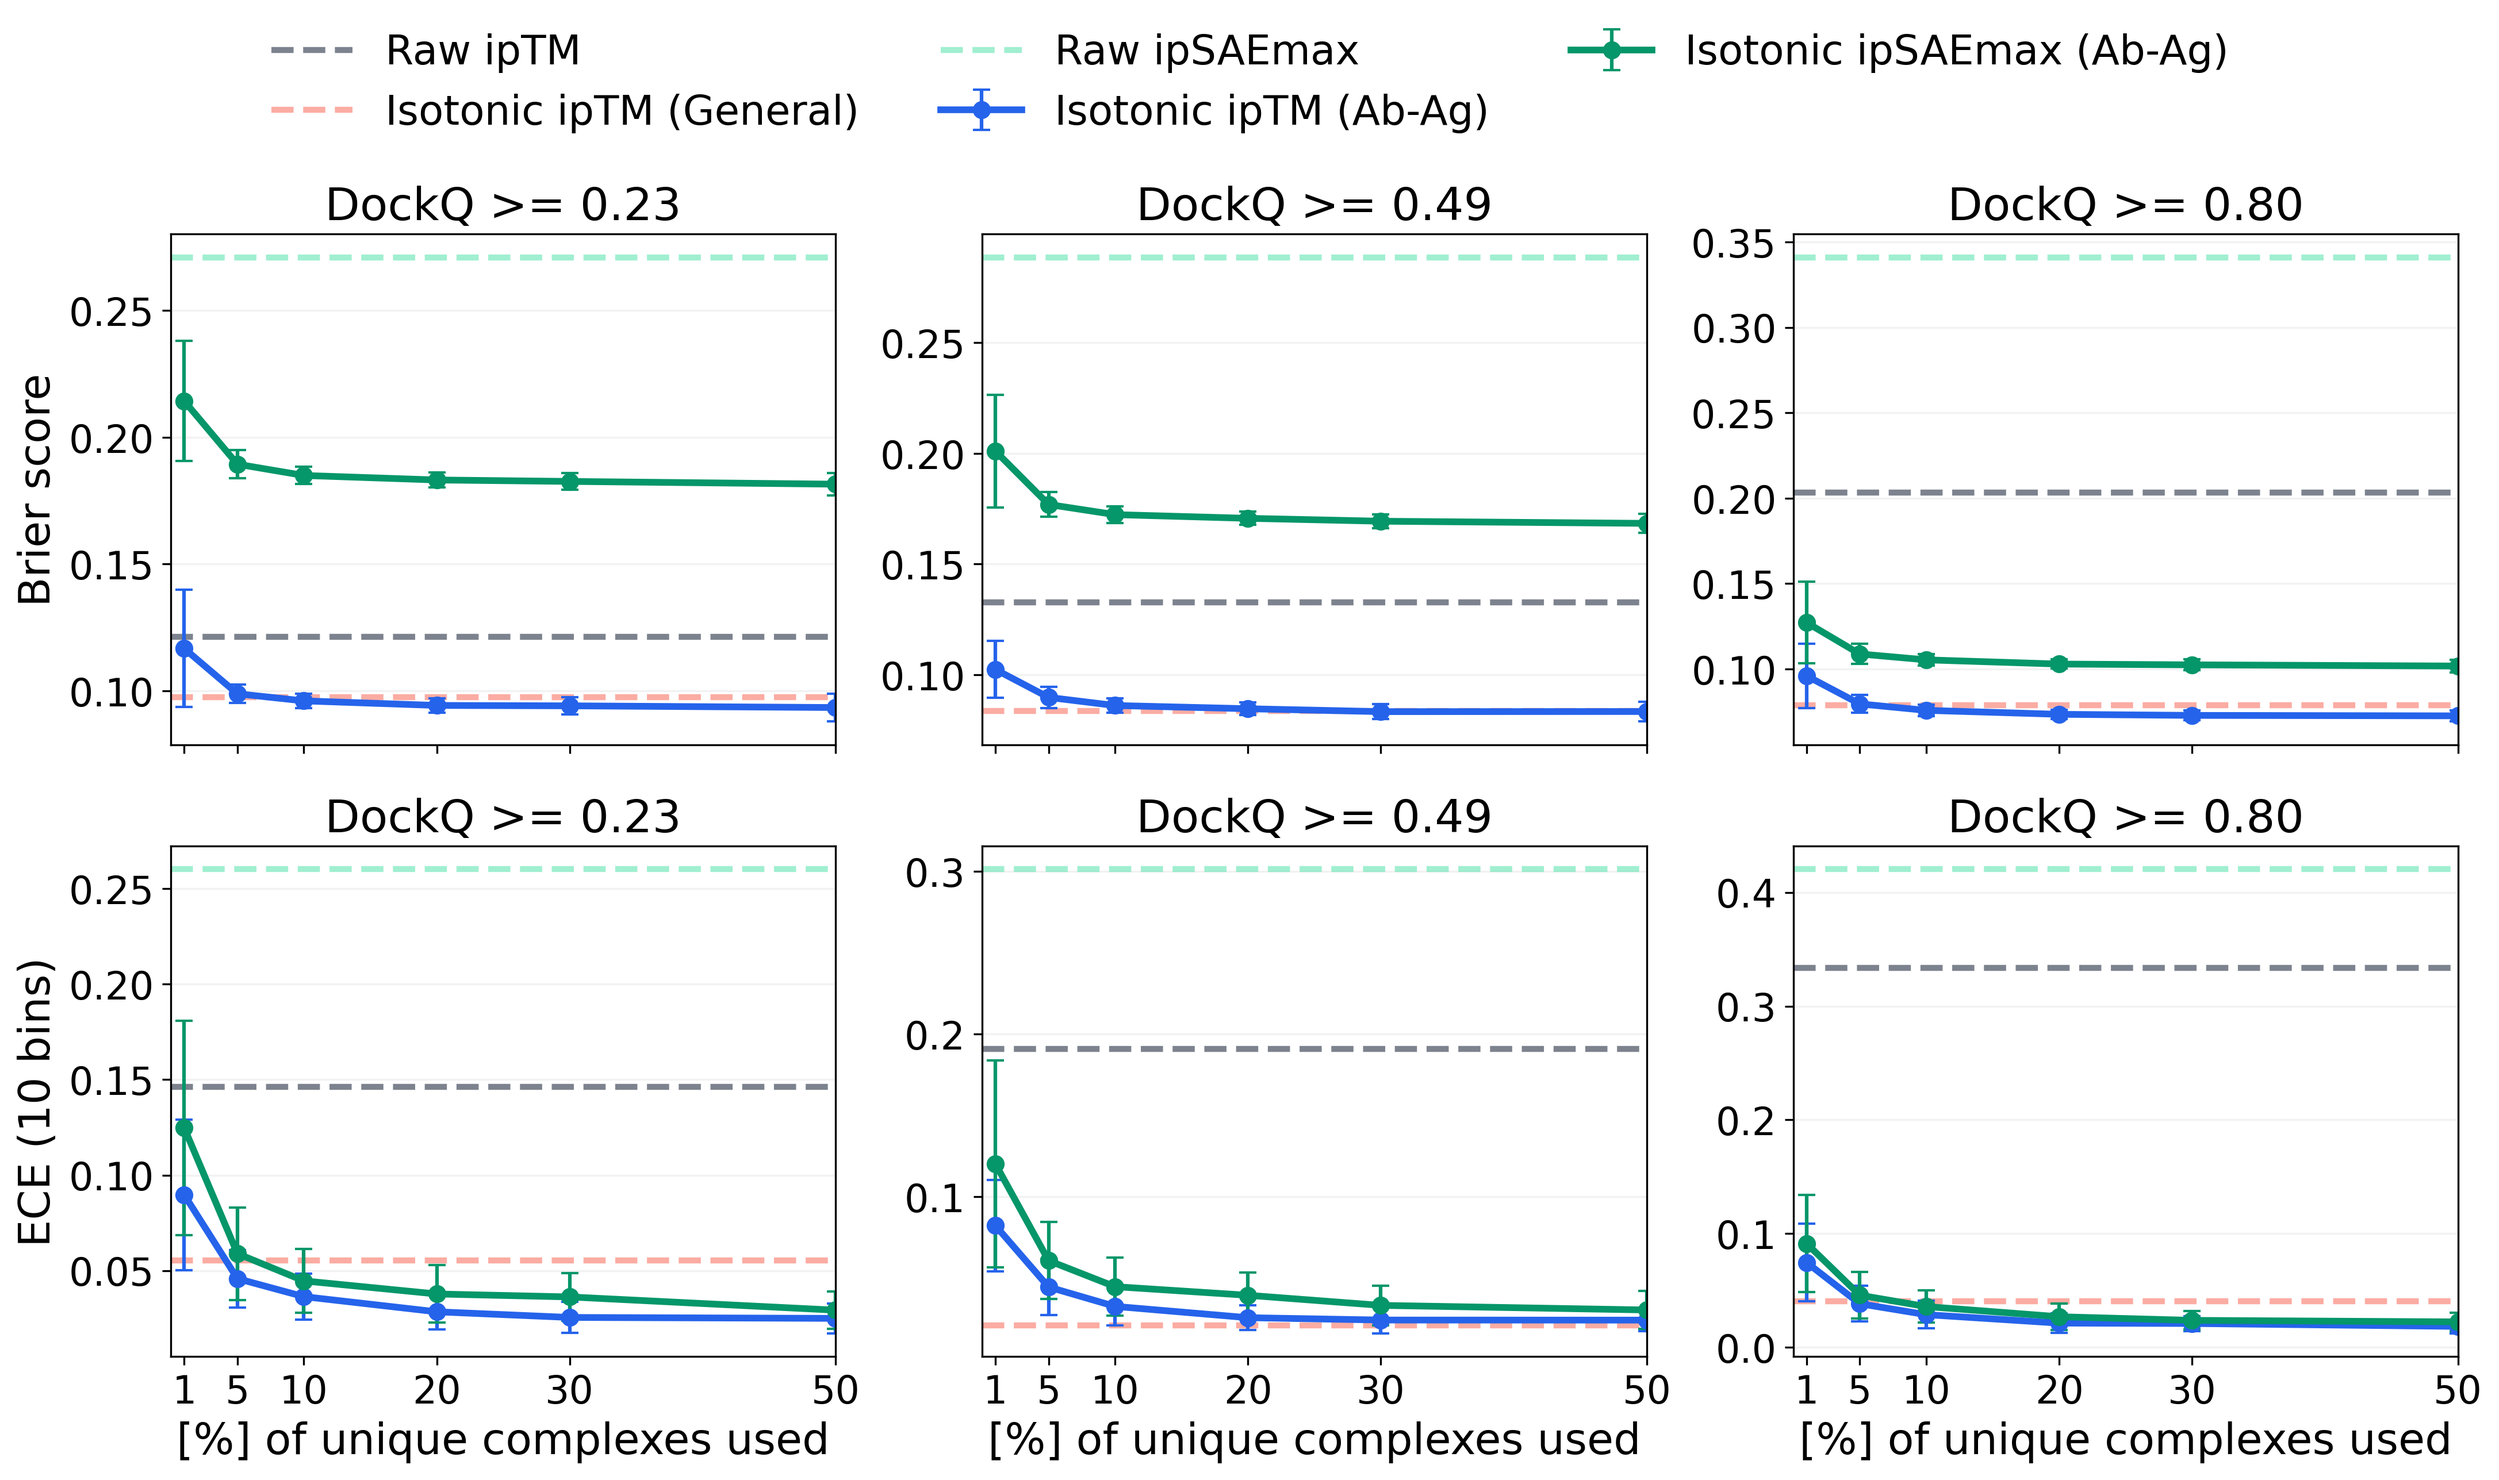
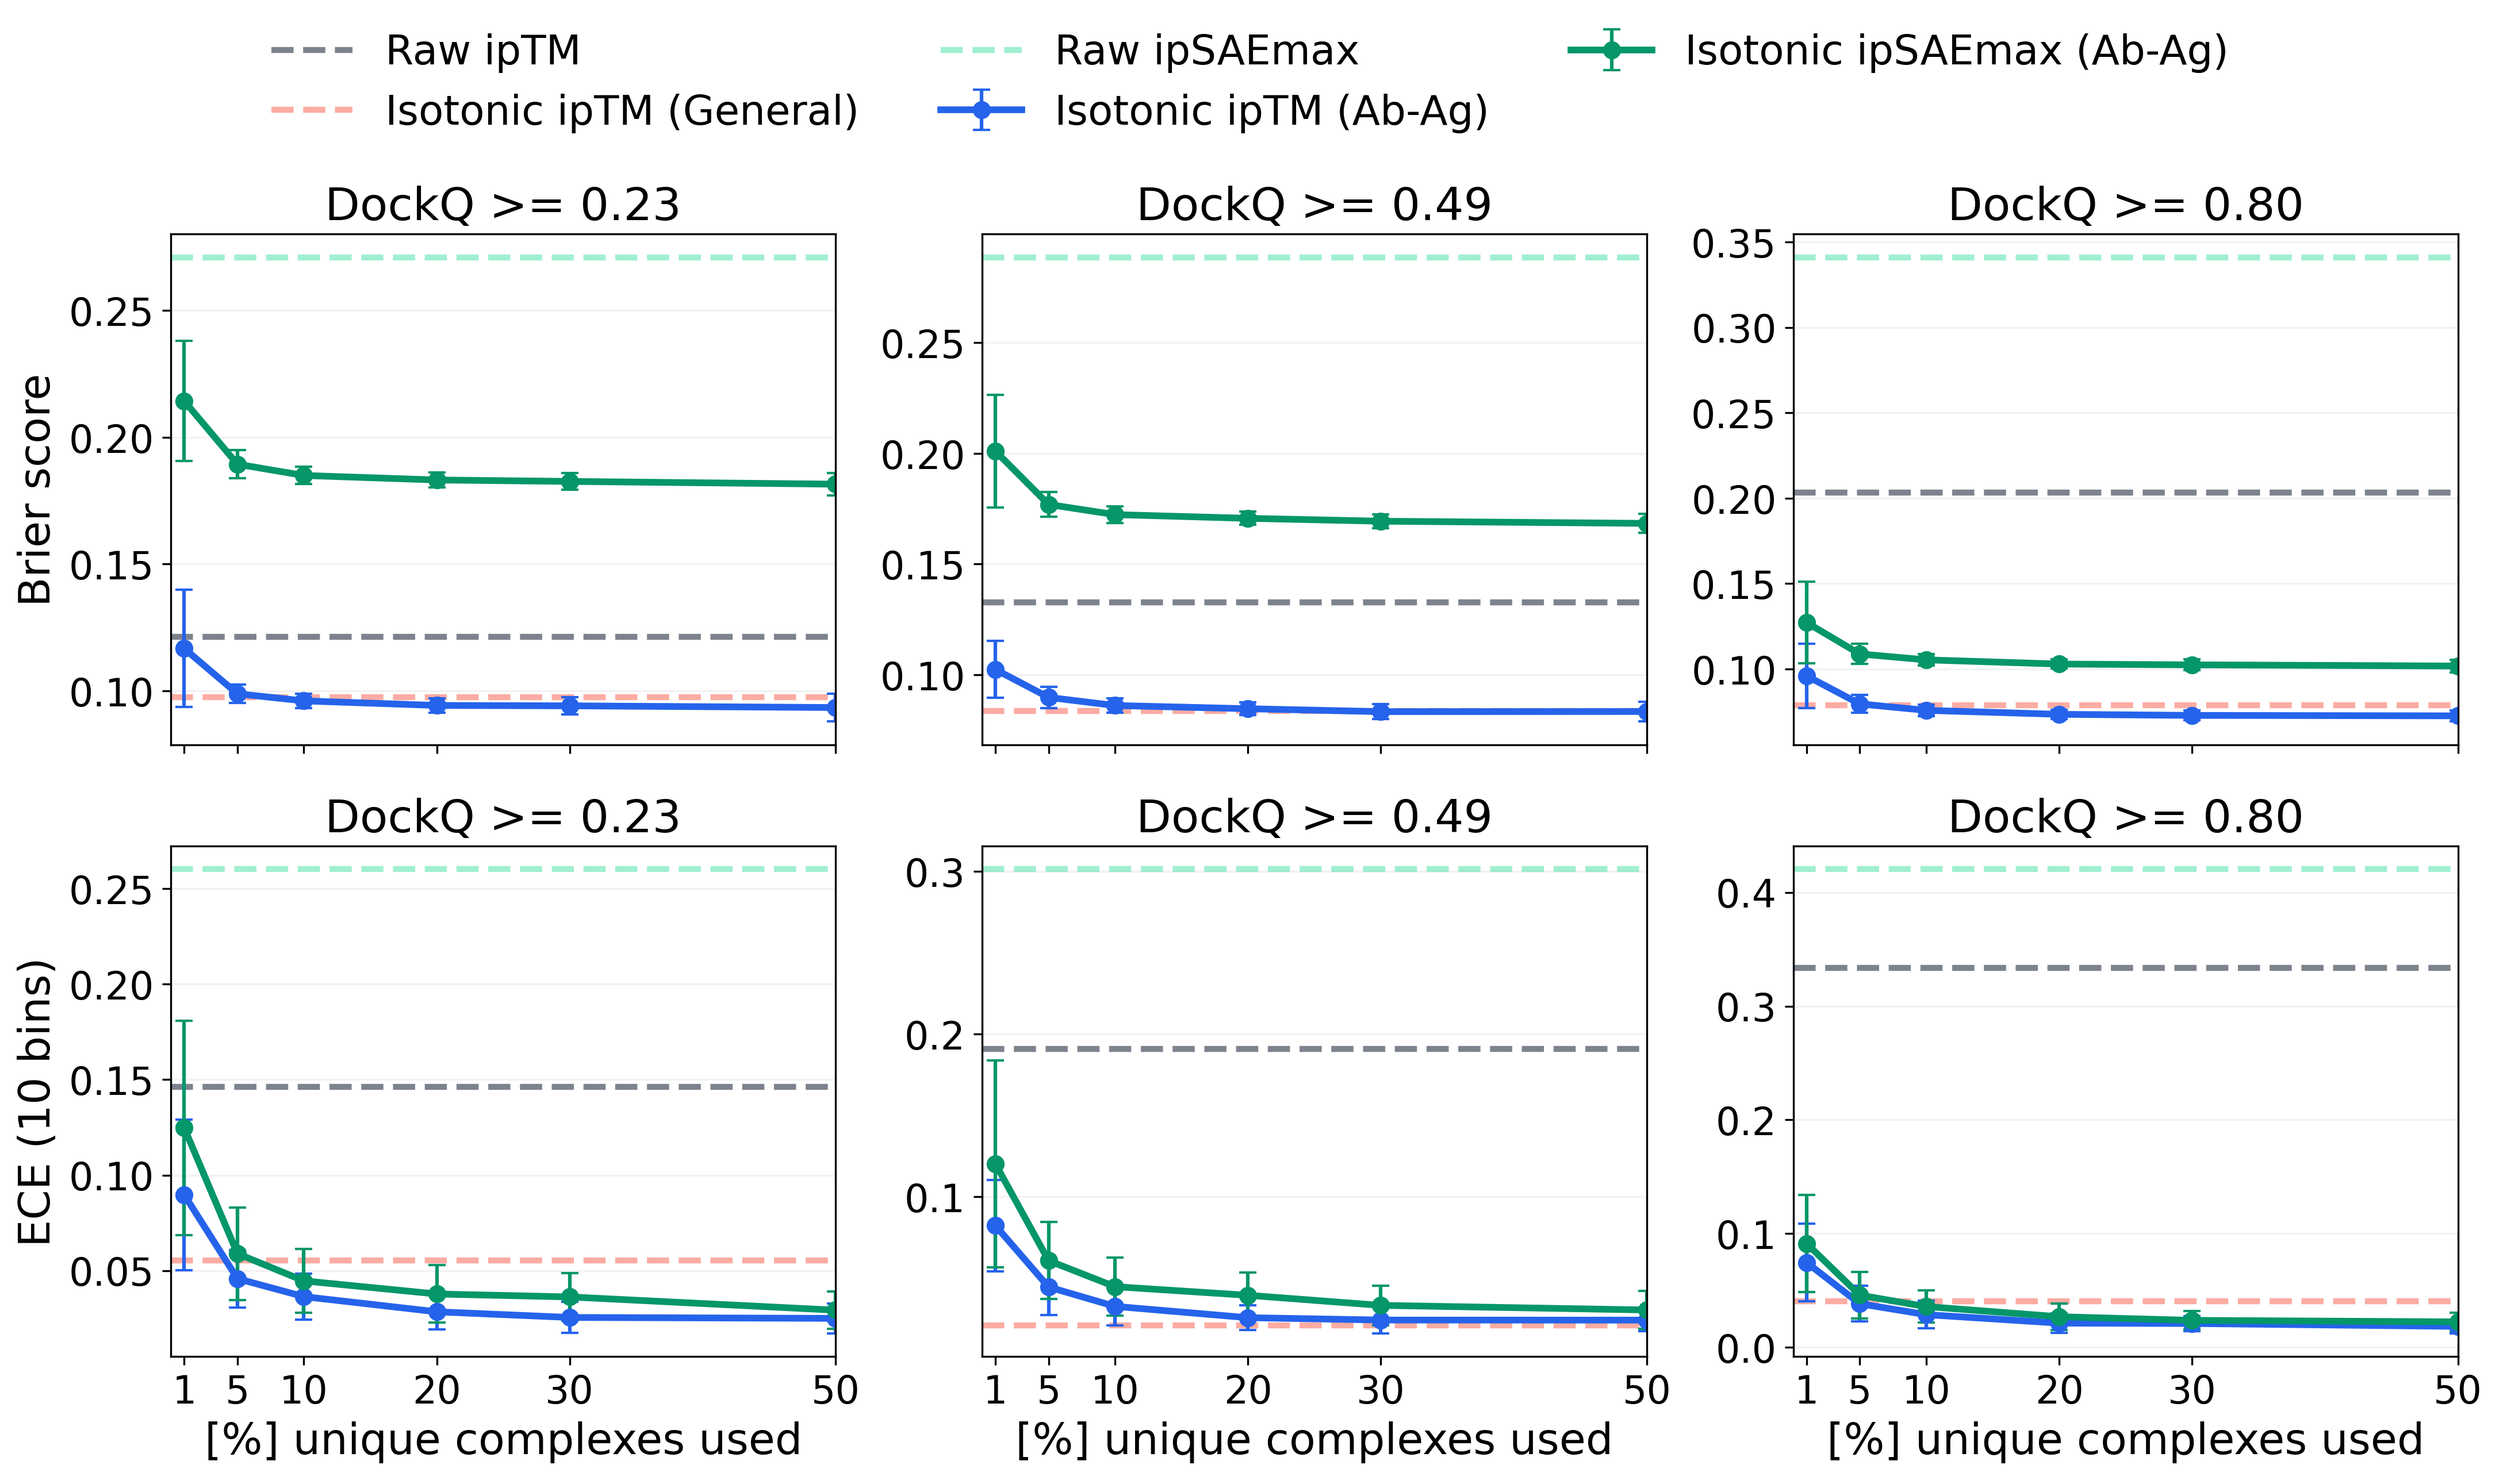
Shorten unique-complex calibration x-axis label

Changed region(s): [[0.7145, 0.9631, 0.994, 0.9942], [0.0621, 0.9631, 0.3417, 0.9942], [0.4038, 0.9631, 0.6523, 0.9942]]

diff --git a/scripts/compute_workshop_abag_recalibration.py b/scripts/compute_workshop_abag_recalibration.py
@@ -315,6 +315,6 @@ def render(source: pd.DataFrame, output_name: str, x_label: str) -> None:
 
 if __name__ == "__main__":
     target_grouped = compute()
-    render(target_grouped, "F3_workshop_abag_recalibration_candidate", "[%] of unique complexes used")
+    render(target_grouped, "F3_workshop_abag_recalibration_candidate", "[%] unique complexes used")
     model_random = compute_model_random()
     render(model_random, "F3_workshop_abag_recalibration_model_random_candidate", "[%] samples used")
